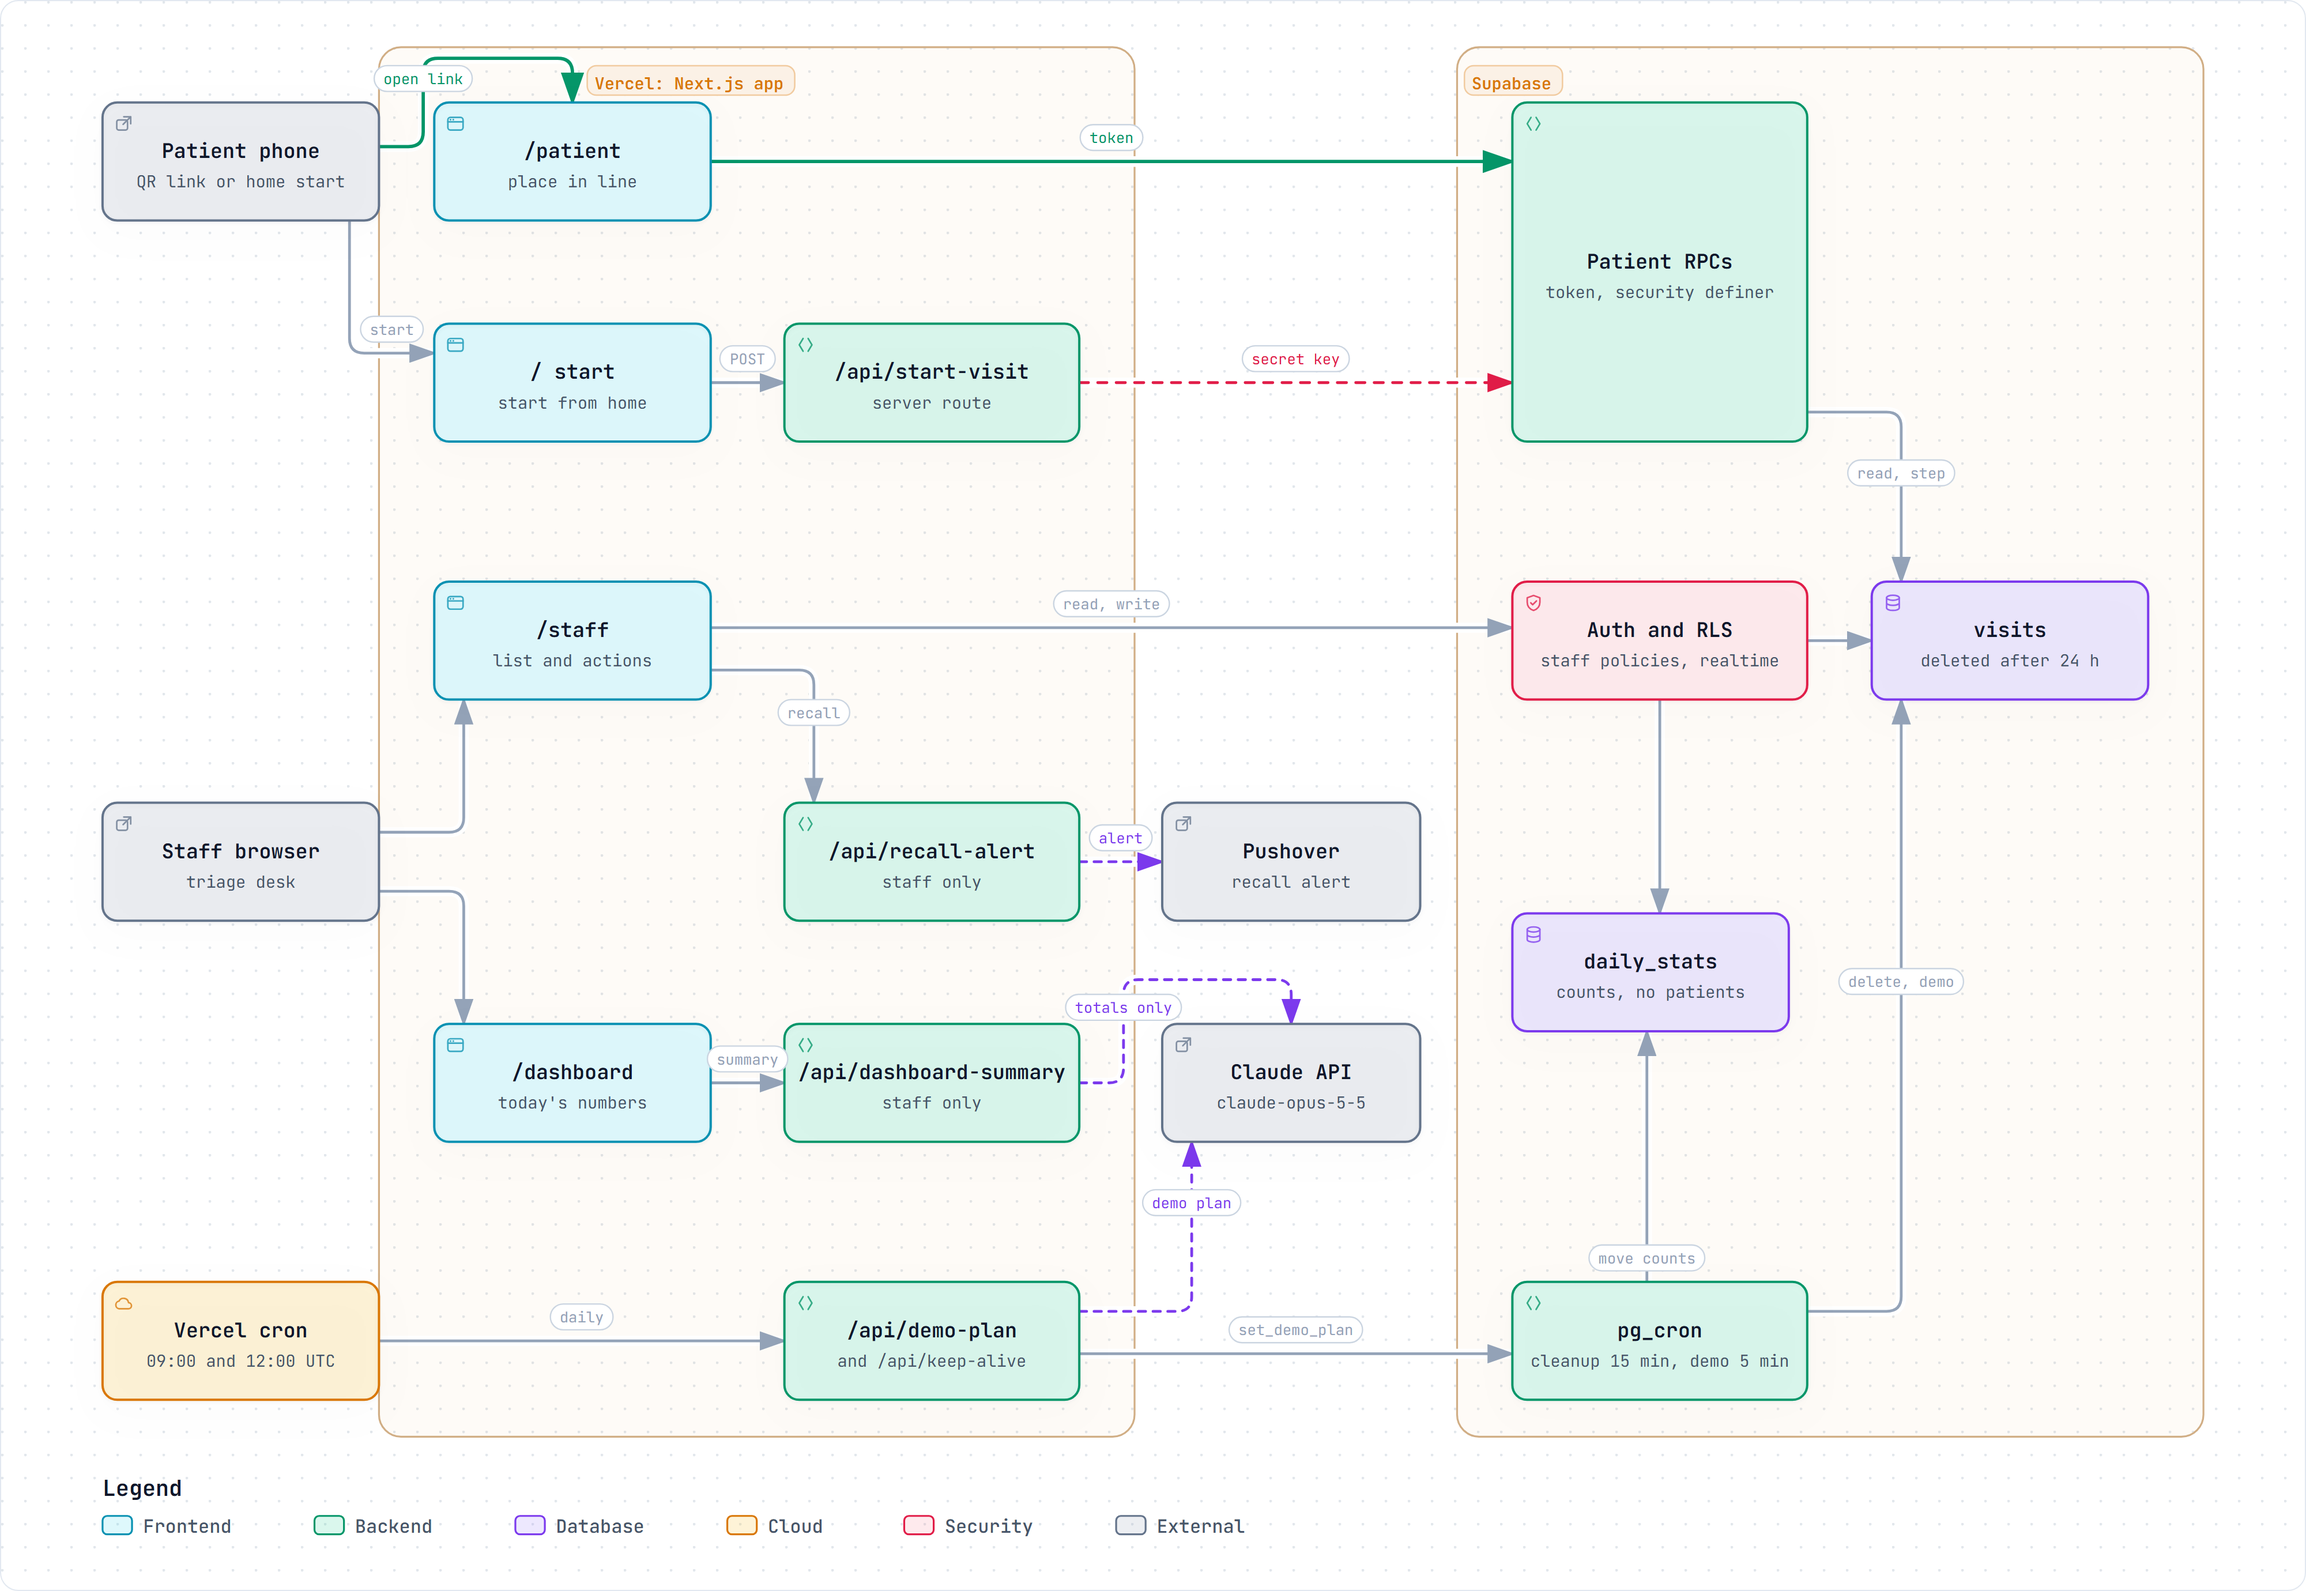
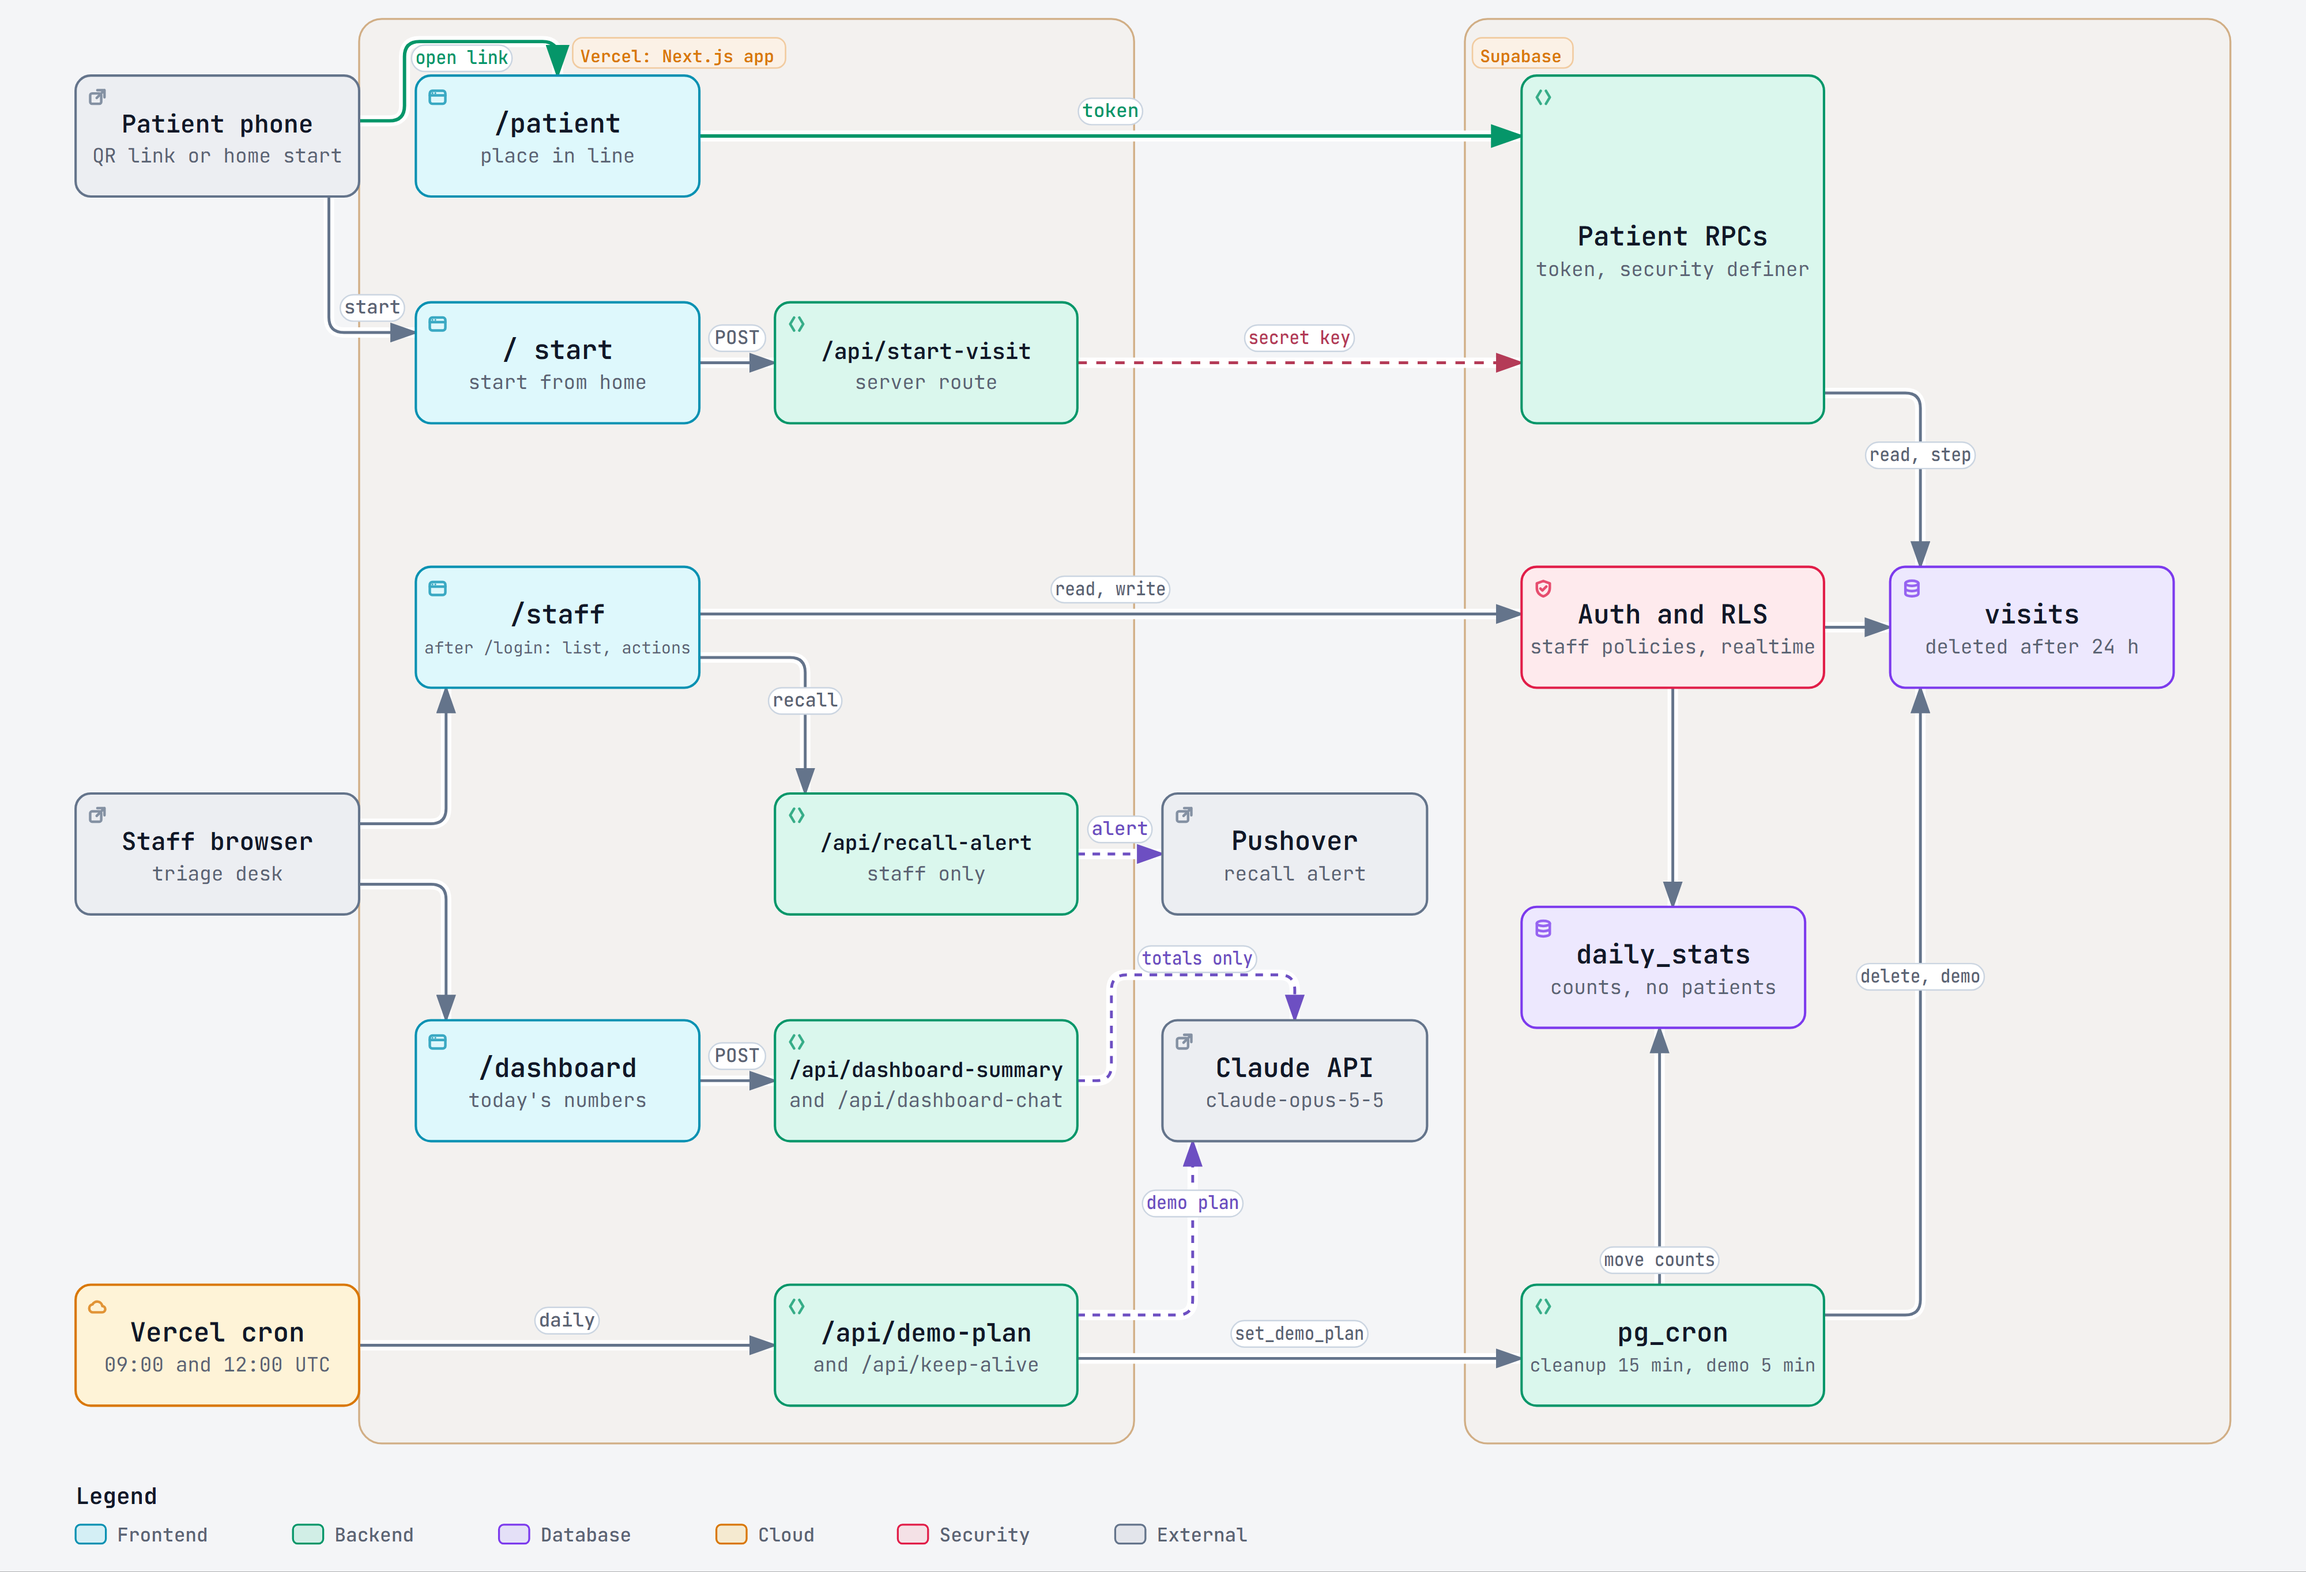
README diagrams: add dashboard-chat and login to the architecture, clarify the lifecycle caption

diff --git a/README.md b/README.md
@@ -95,11 +95,11 @@ GitHub runs `npm test`, `npm run lint` and `npm run build` on every push and eve
 
 ## Diagrams
 
-App architecture: the screens, the server routes, Supabase and the external services, and how they connect.
+App architecture: the screens, the server routes, Supabase and the external services, and how they connect. Two small read-only routes are not shown: /api/site-status (the site pause) and /api/time (the server clock).
 
 ![WaitWell app architecture](.github/readme/architecture.png)
 
-Visit status lifecycle: each status a visit can have, and the moves between them. The list of moves is ALLOWED_MOVES in lib/allowedSteps.ts.
+Visit status lifecycle: each status a visit can have, and the moves between them. Undo moves are not shown. An arrow from the dashed box starts from each of the three statuses in it. The full list of moves is ALLOWED_MOVES in lib/allowedSteps.ts.
 
 ![WaitWell visit status lifecycle](.github/readme/visit-lifecycle.png)
 
